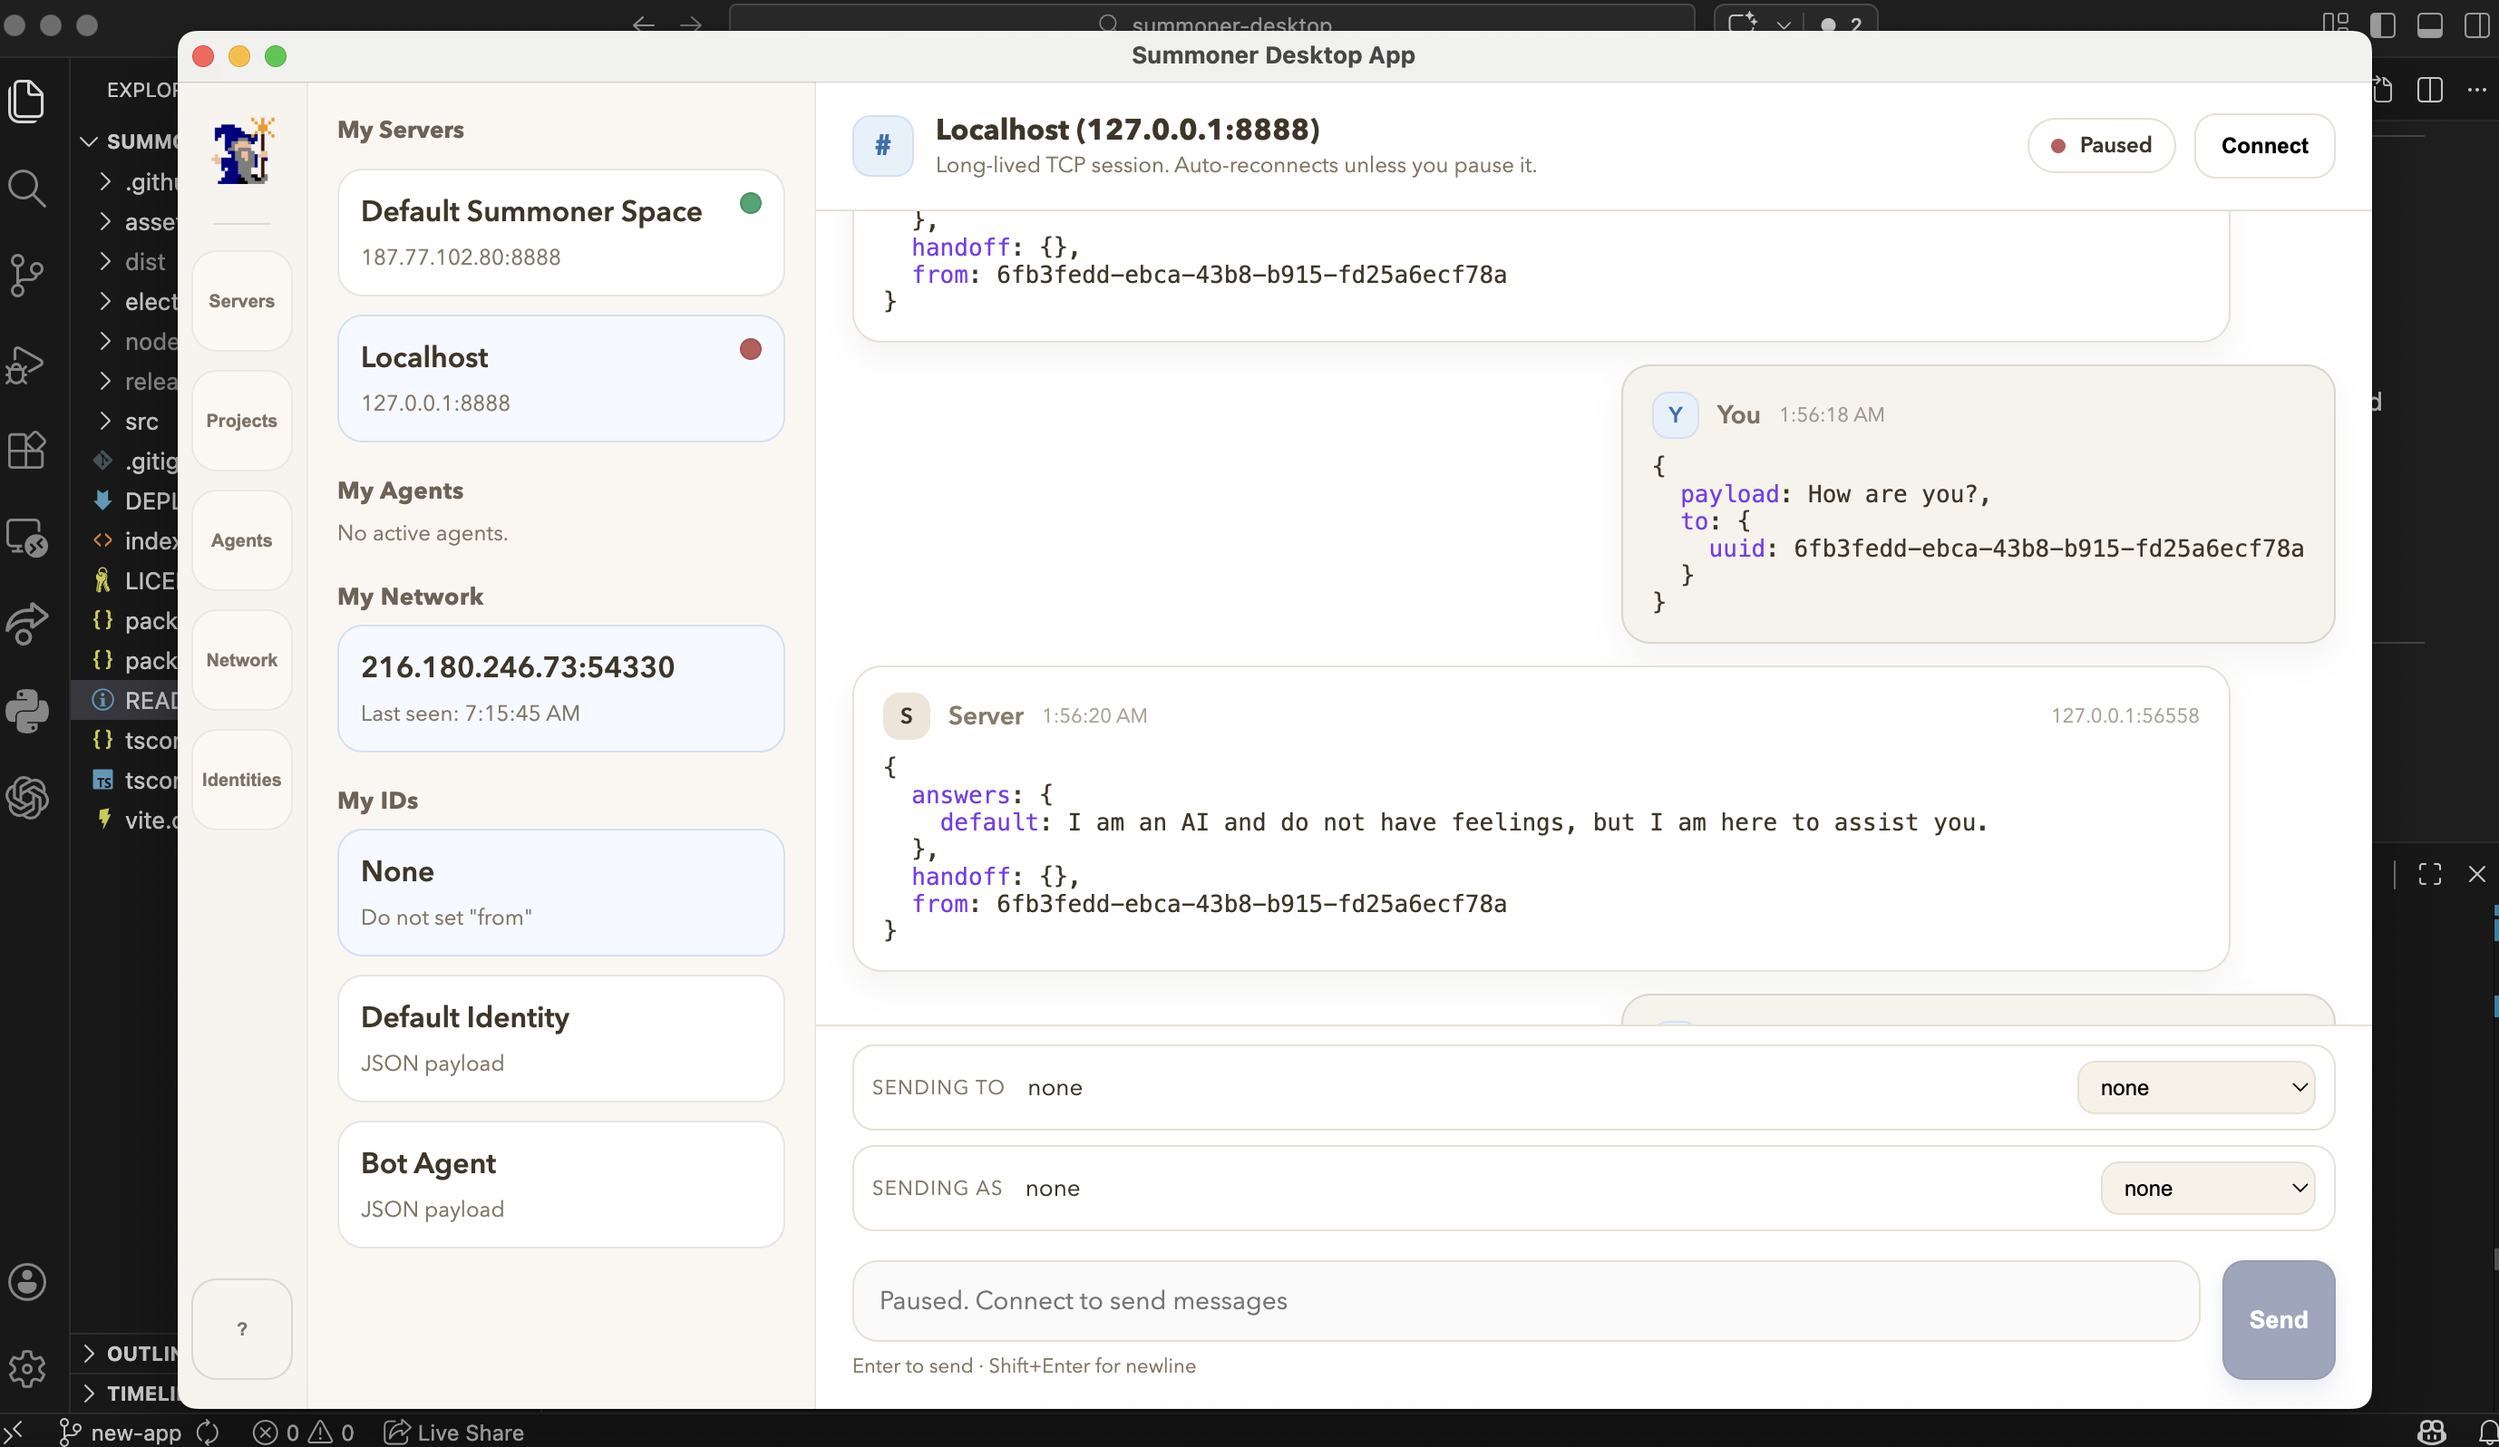
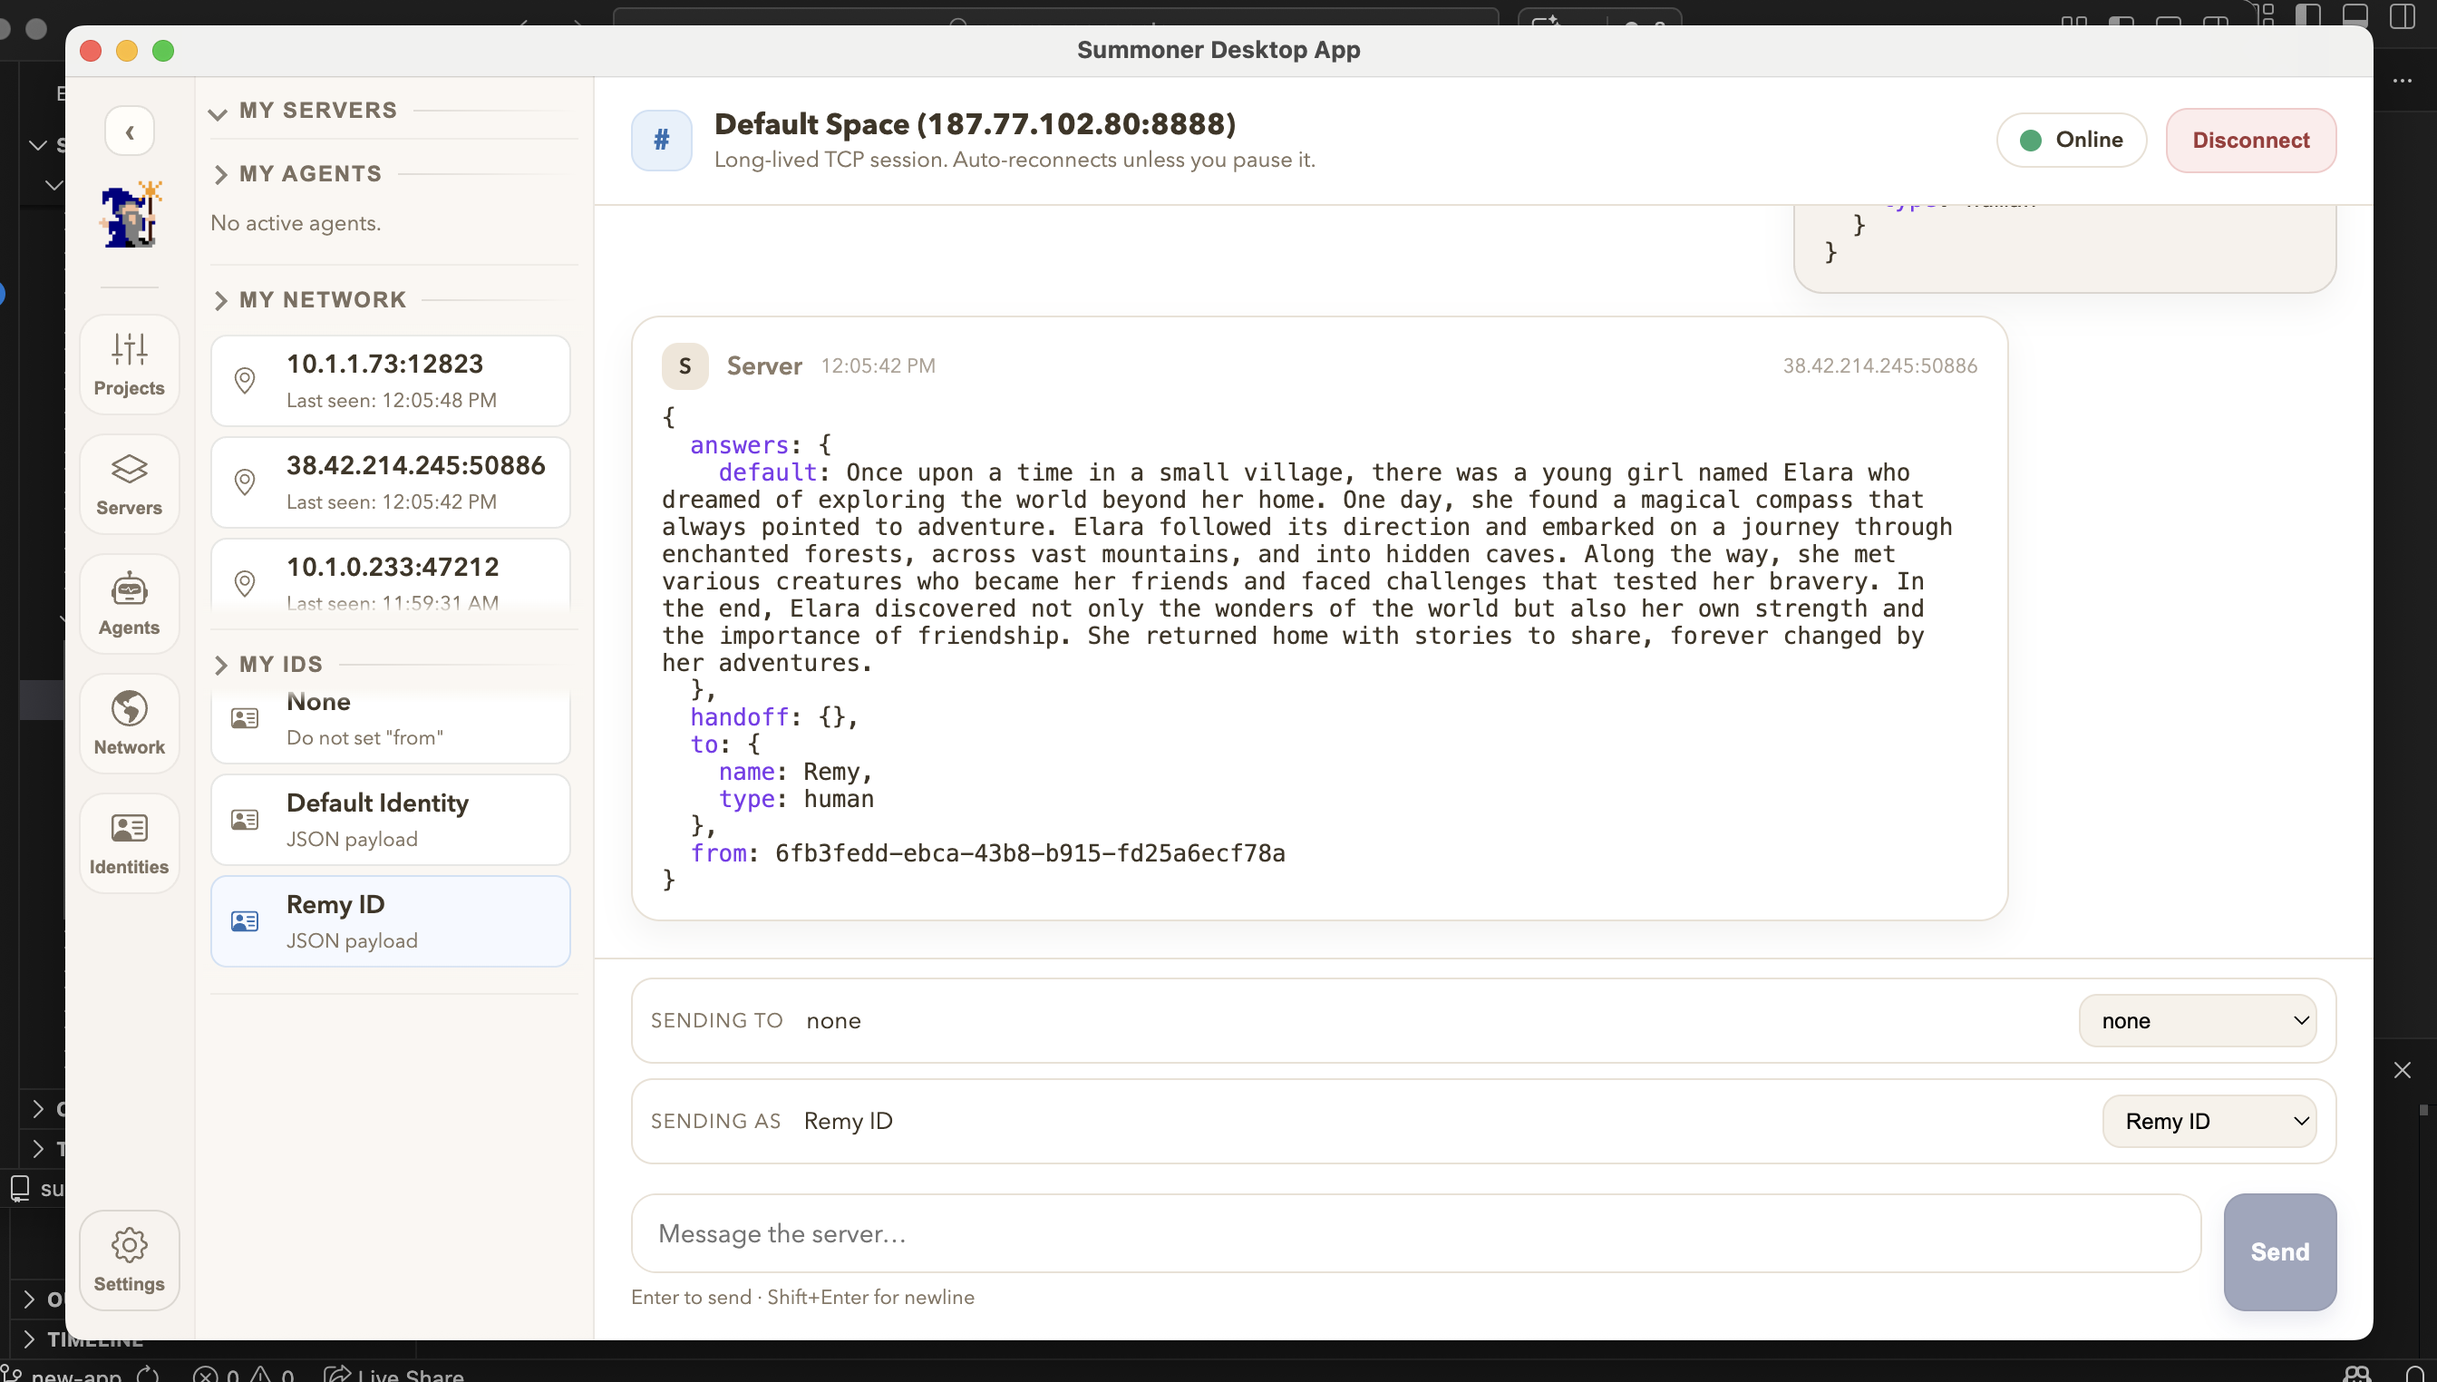
add tutorial video to readme

diff --git a/README.md b/README.md
@@ -8,10 +8,16 @@ Summoner Desktop is a chat-based Electron app for interacting with TCP servers. 
 
 [![Build & Release (mac + linux + windows)](https://github.com/Summoner-Network/summoner-desktop/actions/workflows/build-release.yml/badge.svg)](https://github.com/Summoner-Network/summoner-desktop/actions/workflows/build-release.yml)
 
-## Preview
+## YouTube Demo Video
 
 <p align="center">
-  <img src="assets/img/screenshot_3.png" width="700">  
+  See Summoner Desktop in action in 4 minutes. Click the thumbnail to watch the walkthrough.
+</p>
+
+<p align="center">
+  <a href="https://youtu.be/rOVRLYdC11U" target="_blank" rel="noopener noreferrer">
+    <img src="assets/img/thumbnail_play_rounded.png" width="560" alt="Watch the Summoner Desktop demo on YouTube">
+  </a>
 </p>
 
 ## Getting Started
@@ -106,6 +112,12 @@ This section is designed so you can use the desktop app without running into mis
 
 ## How to use
 
+This is the main chat view for agent management, interaction, and monitoring message flow.
+
+<p align="center">
+  <img src="assets/img/screenshot_rounded.png" width="400">  
+</p>
+
 ### 1) Pick a server
 - Open **Servers** to add or select a TCP server.
 - The default servers are:
@@ -132,6 +144,7 @@ Identities are JSON objects that become the `from` field in outgoing messages.
 
 - Go to **Identities** and create or edit an identity.
 - In chat, choose **Sending as** to set `from`.
+
 
 ## Message format
 
